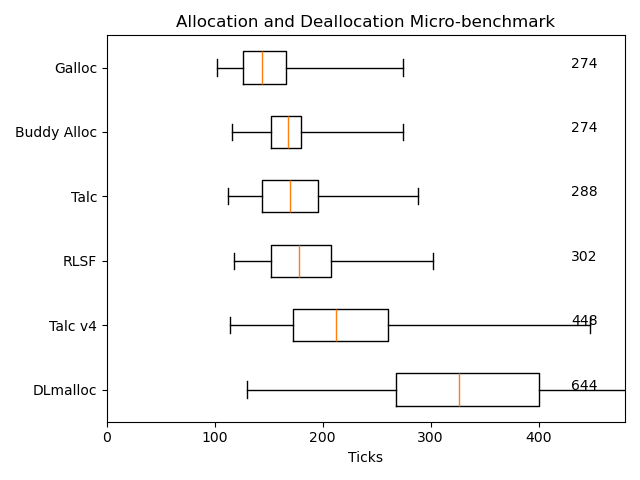
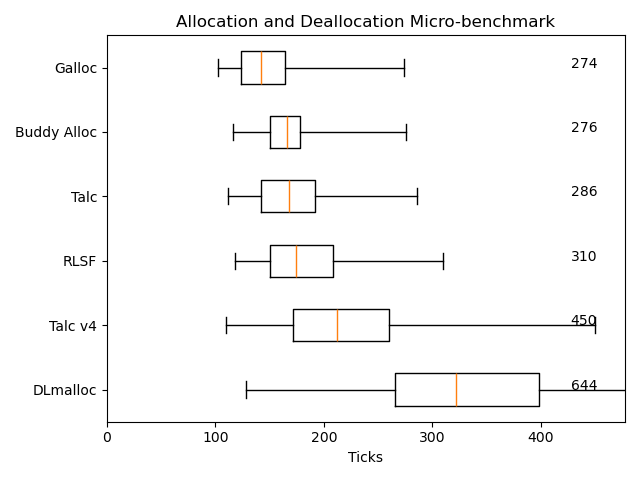
attempted to improve the microbenchmark measurement routines but got the same results, committing it anyway

diff --git a/benches/src/bin/microbench.rs b/benches/src/bin/microbench.rs
@@ -32,30 +32,82 @@ fn main() {
     }
 }
 
-fn now() -> u64 {
+// some insiration for the x86_64 instruction usage
+// https://apeleg.com/blog/posts/2022/09/05/benchmarking-in-c-x86-and-x64/
+// https://blog.codingconfessions.com/p/rdtsc
+
+#[cfg(target_arch = "x86_64")]
+fn warmup_measurement() {
+    unsafe {
+        std::arch::x86_64::_mm_lfence();
+        std::arch::x86_64::_rdtsc();
+        std::arch::x86_64::_mm_lfence();
+        std::arch::x86_64::_rdtsc();
+        std::arch::x86_64::_mm_lfence();
+        std::arch::x86_64::_rdtsc();
+        std::arch::x86_64::_mm_lfence();
+    }
+}
+
+#[cfg(target_arch = "x86_64")]
+fn start_measurement() -> u64 {
     std::sync::atomic::compiler_fence(std::sync::atomic::Ordering::SeqCst);
 
-    #[cfg(target_arch = "x86_64")]
-    let ret = {
-        let mut x = 0u32;
-        let ret = unsafe { std::arch::x86_64::__rdtscp(&mut x) };
-        ret
-    };
-
-    #[cfg(target_arch = "aarch64")]
-    let ret = {
-        let mut timer: u64;
-        unsafe {
-            std::arch::asm!("mrs {0}, cntvct_el0", out(reg) timer, options(nomem, nostack));
-        }
-        return timer;
+    let m = unsafe {
+        std::arch::x86_64::_mm_lfence();
+        std::arch::x86_64::_rdtsc()
     };
 
     std::sync::atomic::compiler_fence(std::sync::atomic::Ordering::SeqCst);
 
-    ret
-    // If a compiler error crops up here, that's because a hardware-based counter
-    // is not implemented for this architecture.
+    m
+}
+
+#[cfg(target_arch = "x86_64")]
+fn end_measurement() -> u64 {
+    std::sync::atomic::compiler_fence(std::sync::atomic::Ordering::SeqCst);
+
+    let mut x = 0u32;
+    unsafe {
+        let m = std::arch::x86_64::__rdtscp(&mut x);
+        std::arch::x86_64::_mm_lfence();
+        m
+    }
+}
+
+#[cfg(target_arch = "aarch64")]
+fn warmup_measurement() {
+    let mut timer: u64;
+    unsafe {
+        std::arch::asm!("mrs {0}, cntvct_el0", out(reg) timer, options(nomem, nostack));
+        std::arch::asm!("mrs {0}, cntvct_el0", out(reg) timer, options(nomem, nostack));
+        std::arch::asm!("mrs {0}, cntvct_el0", out(reg) timer, options(nomem, nostack));
+    }
+    timer
+}
+
+#[cfg(target_arch = "aarch64")]
+fn start_measurement() {
+    std::sync::atomic::compiler_fence(std::sync::atomic::Ordering::SeqCst);
+
+    let mut timer: u64;
+    unsafe {
+        std::arch::asm!("mrs {0}, cntvct_el0", out(reg) timer, options(nomem, nostack));
+        std::sync::atomic::compiler_fence(std::sync::atomic::Ordering::SeqCst);
+    }
+    timer
+}
+
+#[cfg(target_arch = "aarch64")]
+fn end_measurement() {
+    std::sync::atomic::compiler_fence(std::sync::atomic::Ordering::SeqCst);
+
+    let mut timer: u64;
+    unsafe {
+        std::arch::asm!("mrs {0}, cntvct_el0", out(reg) timer, options(nomem, nostack));
+        std::sync::atomic::compiler_fence(std::sync::atomic::Ordering::SeqCst);
+    }
+    timer
 }
 
 fn benchmark_allocator(allocator: &dyn GlobalAlloc, name: &str, csv_file: &mut File) {
@@ -93,9 +145,11 @@ fn benchmark_allocator(allocator: &dyn GlobalAlloc, name: &str, csv_file: &mut F
         let align = generate_align();
         let layout = Layout::from_size_align(size, align).unwrap();
 
-        let alloc_begin = now();
+        warmup_measurement();
+        let alloc_begin = start_measurement();
         let alloc = unsafe { allocator.alloc(layout) };
-        let alloc_ticks = now().wrapping_sub(alloc_begin);
+        let alloc_end = end_measurement();
+        let alloc_ticks = alloc_end.wrapping_sub(alloc_begin);
 
         if std::ptr::null_mut() != alloc {
             alloc_ticks_vec.push(alloc_ticks);
@@ -116,11 +170,13 @@ fn benchmark_allocator(allocator: &dyn GlobalAlloc, name: &str, csv_file: &mut F
                 let index = fastrand::usize(..active_allocations.len());
                 let allocation = active_allocations.swap_remove(index);
 
-                let dealloc_begin = now();
+                warmup_measurement();
+                let dealloc_begin = start_measurement();
                 unsafe {
                     allocator.dealloc(allocation.0, allocation.1);
                 }
-                let dealloc_ticks = now().wrapping_sub(dealloc_begin);
+                let dealloc_end = end_measurement();
+                let dealloc_ticks = dealloc_end.wrapping_sub(dealloc_begin);
                 dealloc_ticks_vec.push(dealloc_ticks);
             }
         }

diff --git a/BENCHMARKS.md b/BENCHMARKS.md
@@ -58,11 +58,11 @@ use a `no_std` allocator like Talc (nor most of the allocators shown here).
 ## Notes
 
 There's no good substitute for benchmarking your program with different allocators.
-You'll probably find the different pretty tiny or within noise, depending on the program,
+You'll probably find the difference small or within noise, depending on the program,
 if only a small fraction of its runtime is spent allocating.
 
 It might be worth getting some more serious allocation benchmarks incorporated into this project,
-but for now it's just good ol' random actions benchmarks.
+but for now it's just simple random actions benchmarks.
 I'm a little more skeptical of the micro-benchmarks by nature, but I've included it for completeness.
 
 There are a bunch of "hidden" choices in these benchmarks that I've consciously chosen to suite
